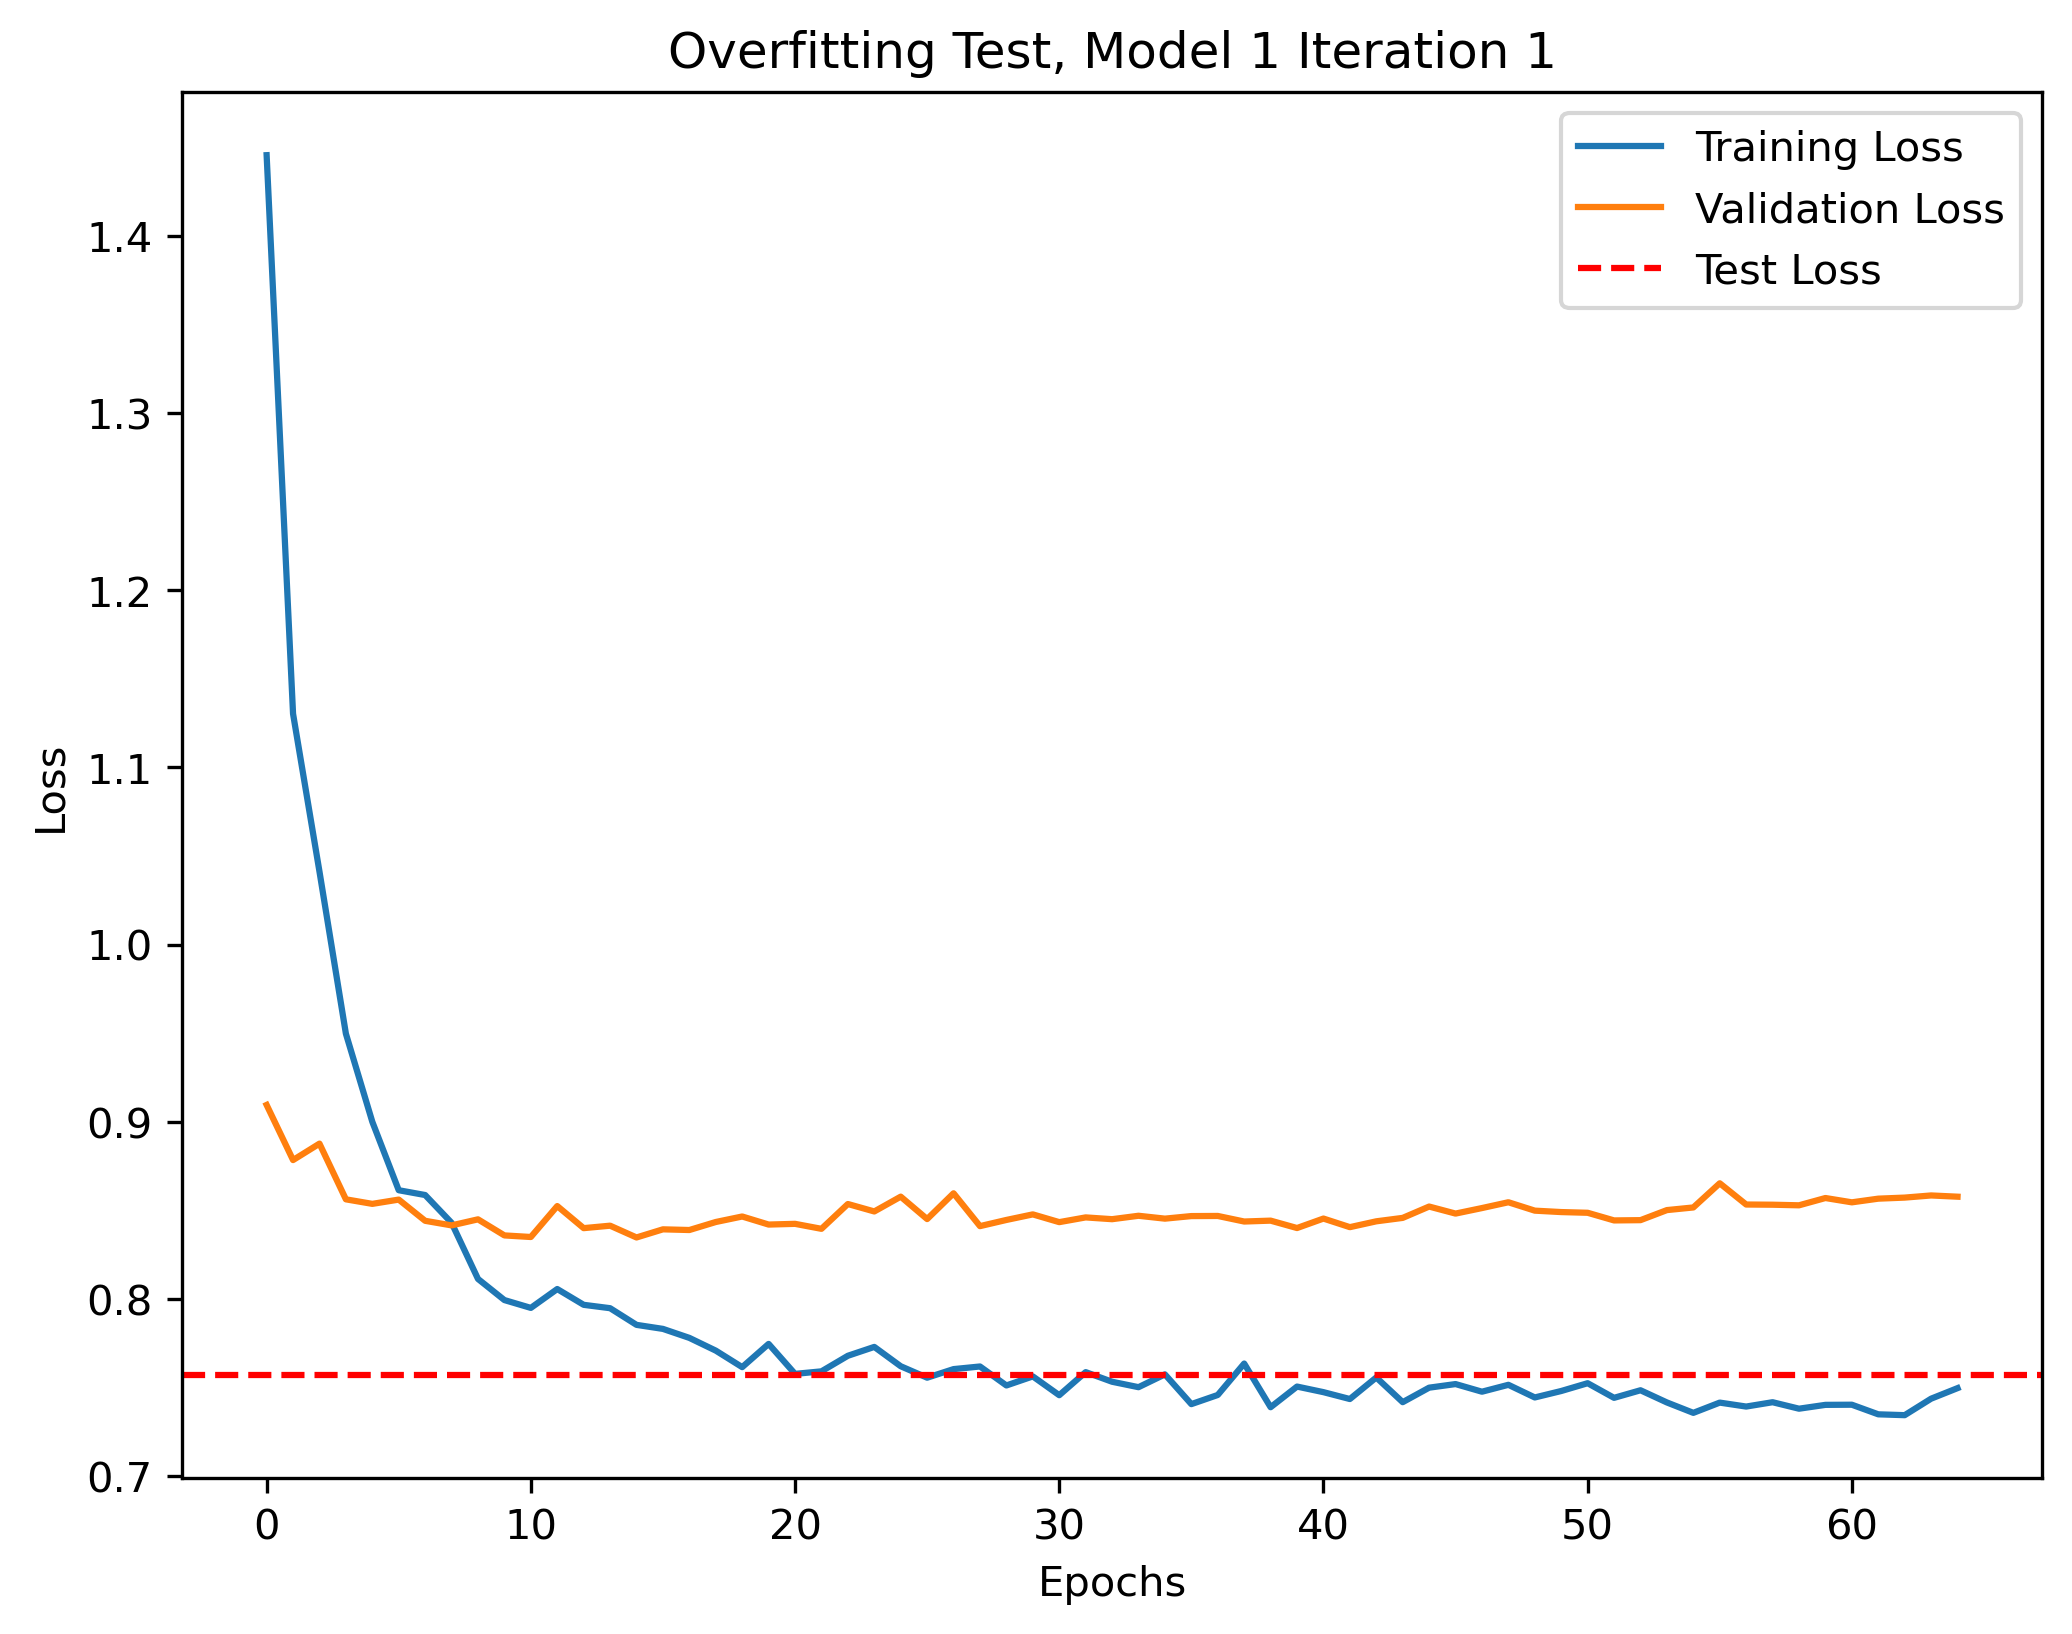
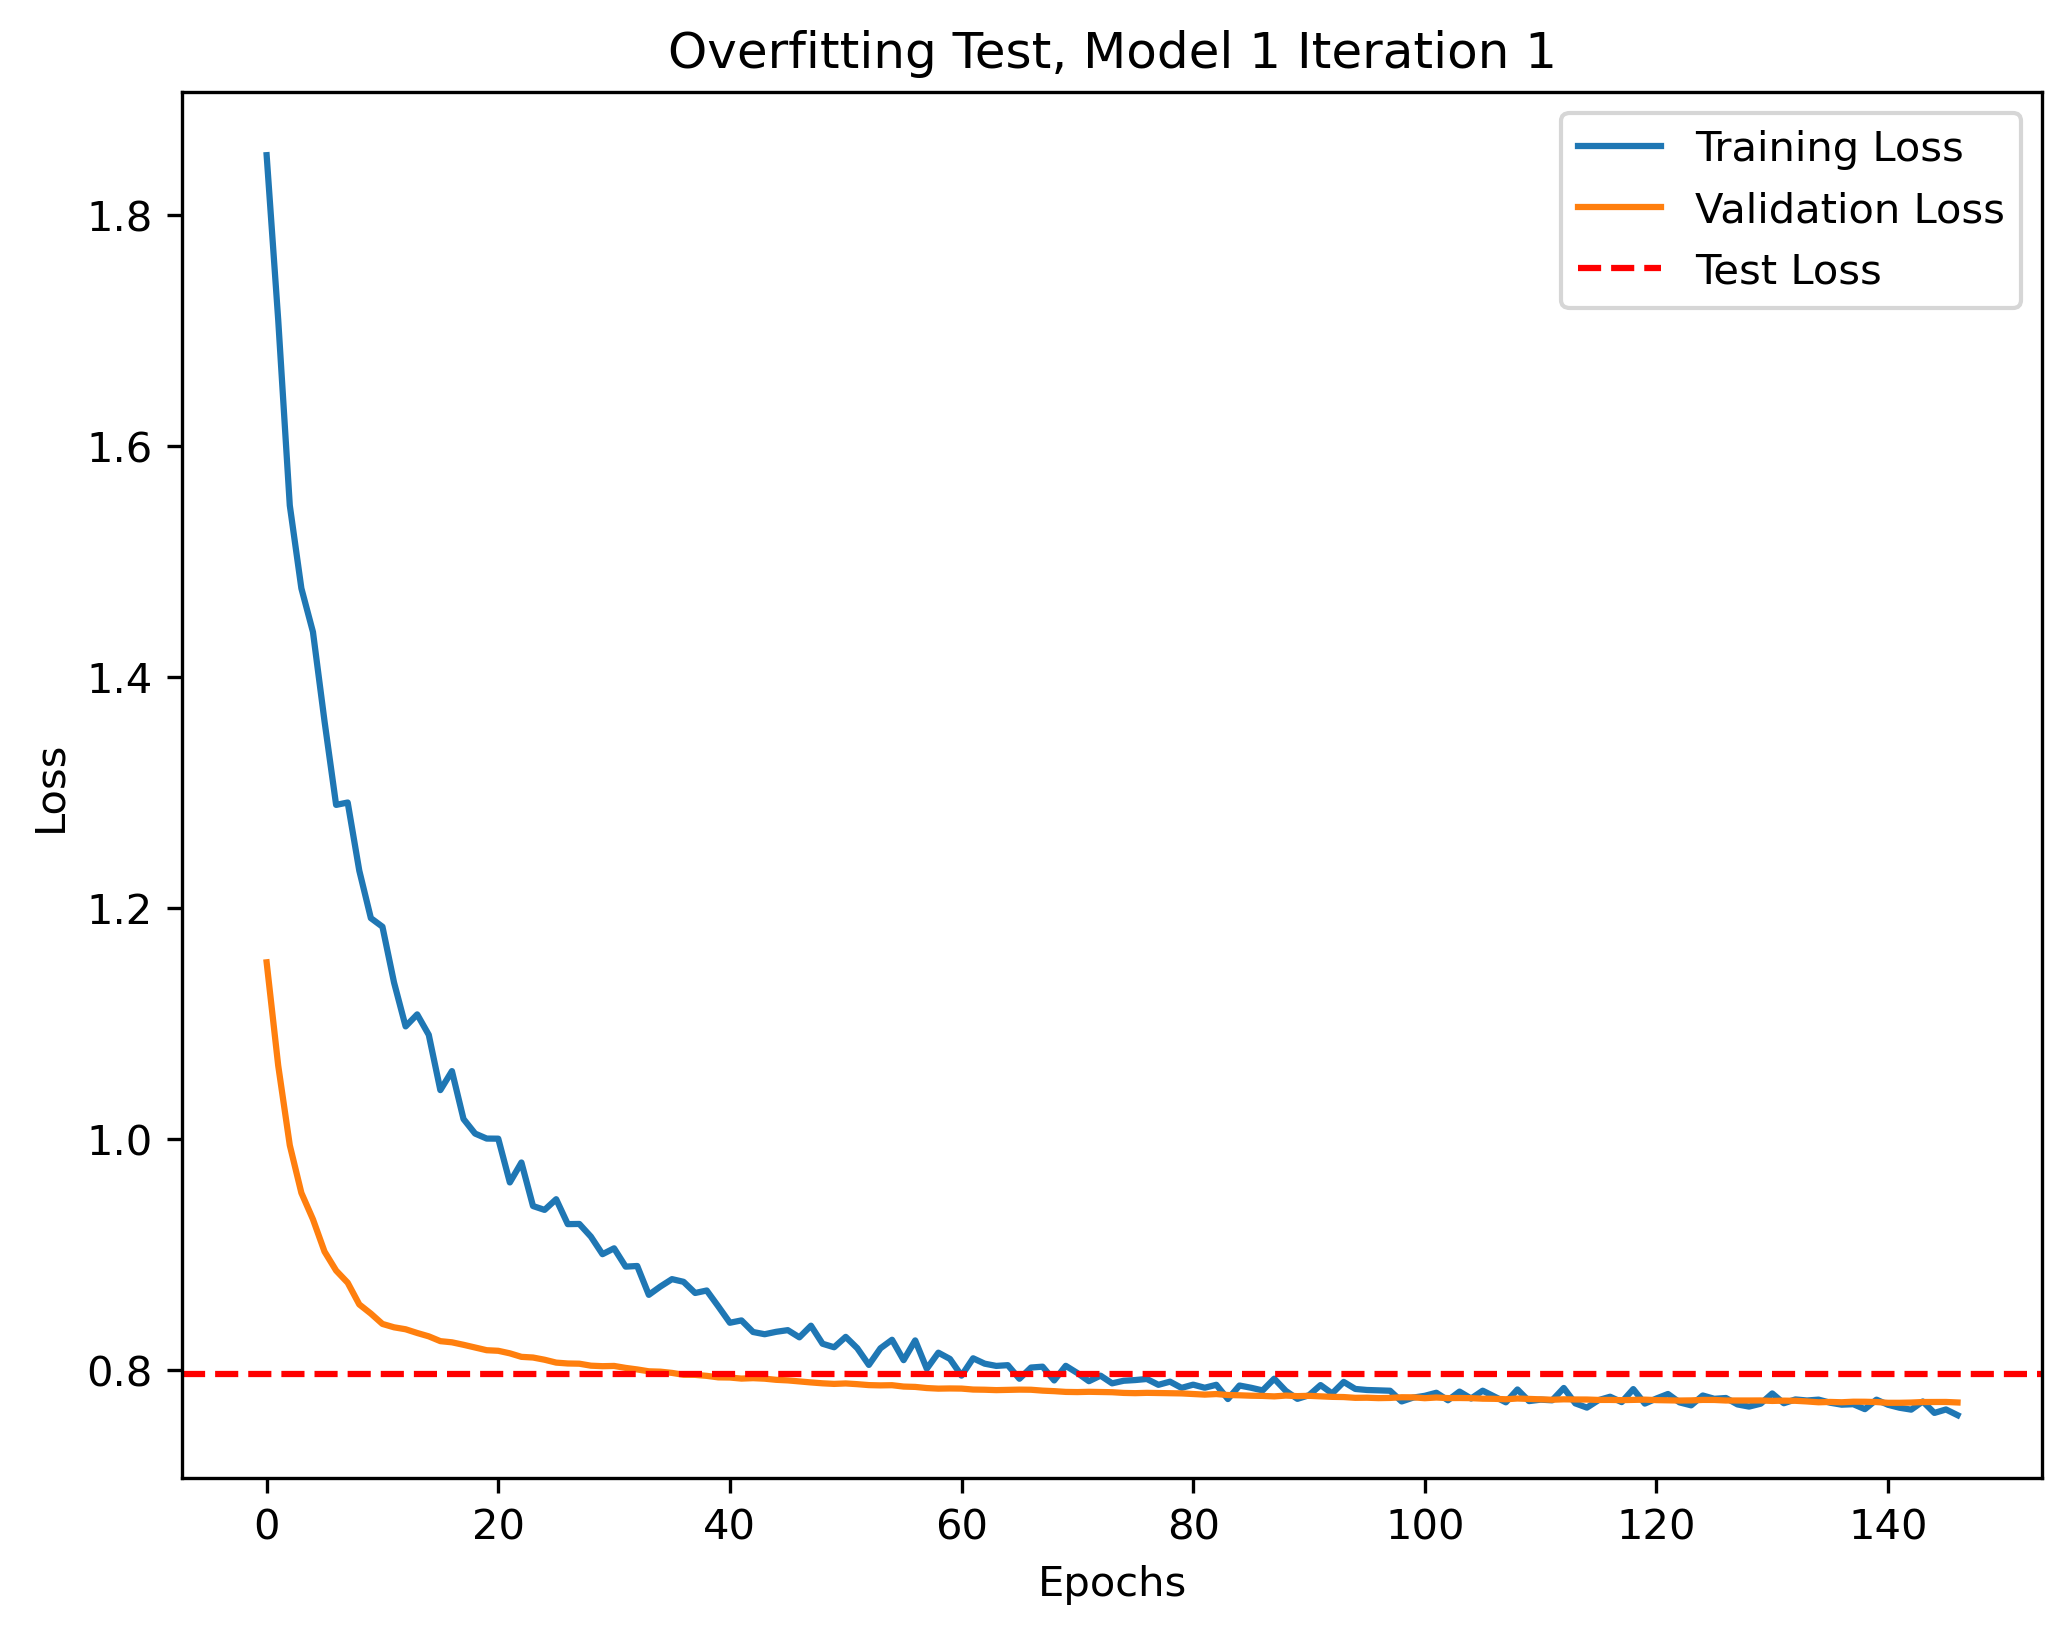
optimized 25.02.10

diff --git a/main_pt.py b/main_pt.py
@@ -213,16 +213,17 @@ model3_accuracy_sum = 0
 ###### Hyper Params ######
 ##########################
 
-num_of_tests = 5
-batch_size_ = 64
-learning_rate = 0.001
+num_of_tests = 10
+batch_size_ = 32
+learning_rate = 1e-4
+n_epochs = 500
 
 weight_decay = 1e-3
 scheduler_gamma = 0.1
 
 ## EarlyStopping
 patience = 50
-delta = 1e-5
+delta = 1e-2
 
 input_features = 6
 
@@ -290,10 +291,10 @@ for iteration in range(num_of_tests) :
                 super().__init__() # 부모 클래스 초기화 메서드를 호출
                 self.flatten = nn.Flatten() # 보통 첫 번째 차원은 유지하고 나머지 차원을 모두 곱해서 2차원 텐서로 만듦
                 self.linear_relu_stack = nn.Sequential(
-                    nn.Linear(input_features, 512),
+                    nn.Linear(input_features, 128),
                     nn.ReLU(),
                     nn.Dropout(0.5),
-                    nn.Linear(512, 4)
+                    nn.Linear(128, 4)
                 )
 
             def forward(self, x):
@@ -323,15 +324,11 @@ for iteration in range(num_of_tests) :
                            step_size = 20,
                            gamma = scheduler_gamma)
 
-
-        # 훈련 루프
-        num_epochs = 161  # 에폭 수
-
         # 손실 기록용 리스트 초기화
         train_losses = []
         val_losses = []
 
-        for epoch in range(num_epochs):
+        for epoch in range(n_epochs):
             model.train()  # 모델을 훈련 모드로 설정
             running_loss = 0.0
             correct = 0
@@ -366,7 +363,7 @@ for iteration in range(num_of_tests) :
             train_losses.append(epoch_loss)
             epoch_acc = 100 * correct / total
             if epoch % 20 == 0 :
-                print(f"Epoch [{epoch+1}/{num_epochs}], Loss: {epoch_loss:.4f}, Accuracy: {epoch_acc:.2f}%")
+                print(f"Epoch [{epoch+1}/{n_epochs}], Loss: {epoch_loss:.4f}, Accuracy: {epoch_acc:.2f}%")
 
             # 검증 정확도 계산 (매 에폭마다 검증 데이터로 성능 평가)
             model.eval()
